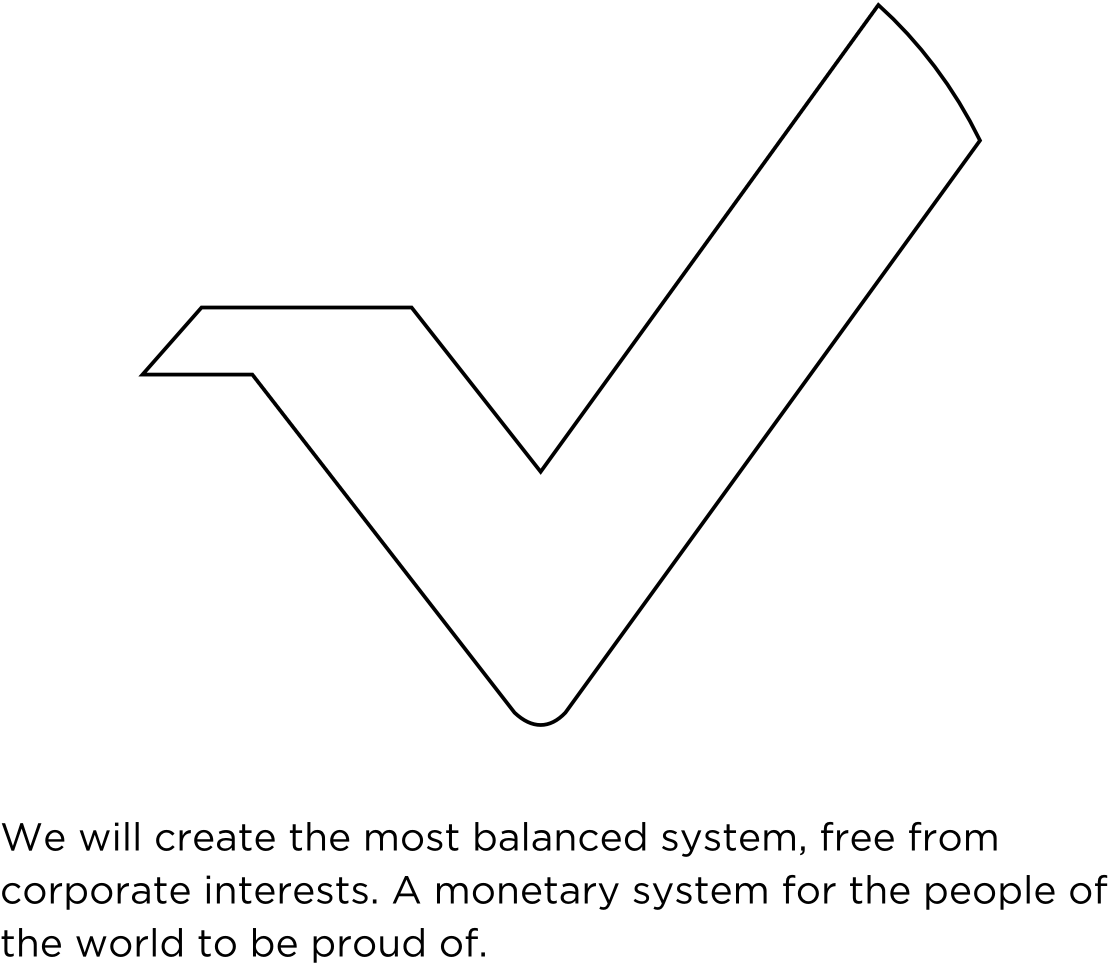
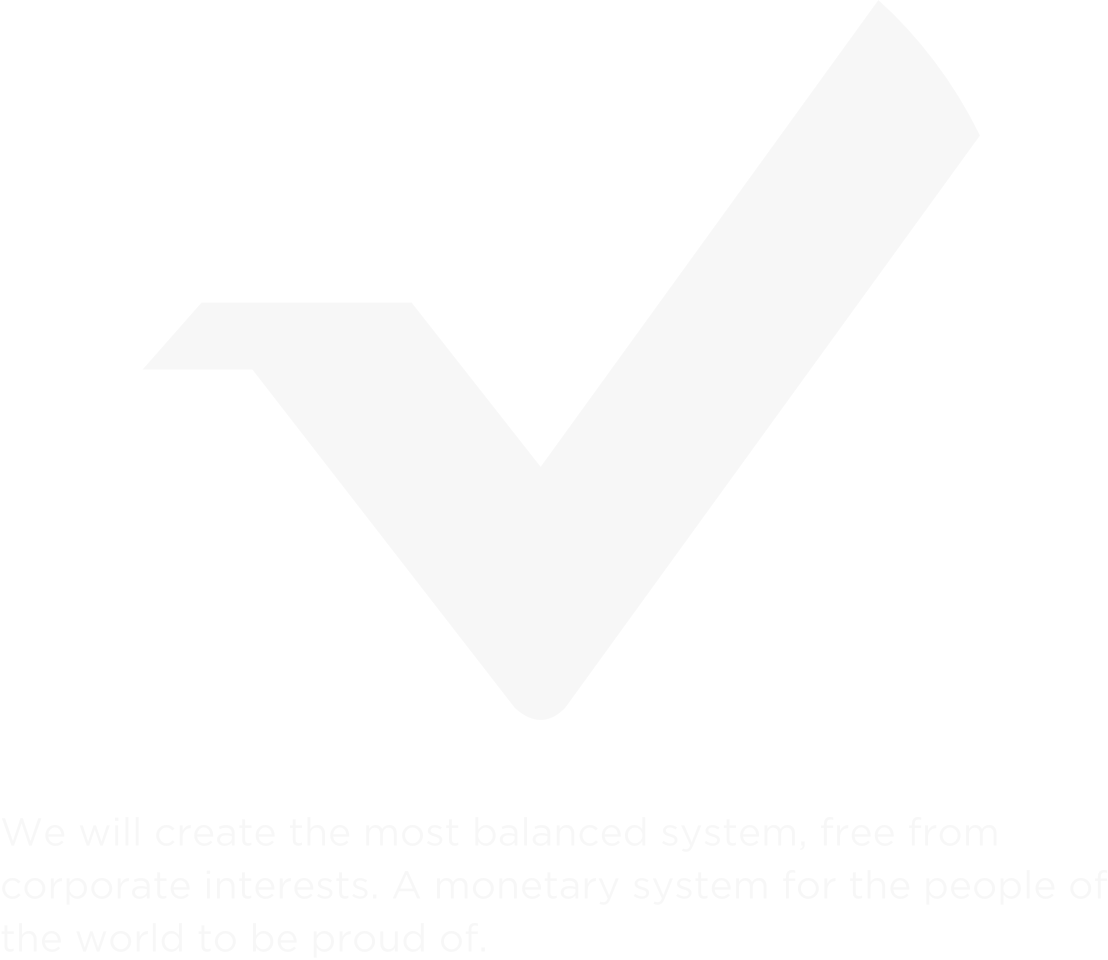
page updates

diff --git a/layouts/shortcodes/donationfund.html b/layouts/shortcodes/donationfund.html
@@ -1,27 +1,30 @@
-<div class="fh5co-block to-animate donationGoal" style="width: 100%; min-height: 300px; margin-top: 10px;" data-address="{{ .Get "address" }}" data-goal="{{ .Get "goal" }}">
-    <div class="overlay-darker"></div>
-    <div class="overlay"></div>
-    <div class="fh5co-text">
-        <h2>{{.Get "title"}}</h2>
-        <p>{{ i18n "donation_address" | markdownify }}: <a target="_blank" href="https://insight.vertcoin.org/address/{{ .Get "address" }}"><b>{{ .Get "address" }}</b></a></p>
-        <p>{{.Get "description"}}</p>
-        <div class="col-xs-12">
-            <div class="col-xs-1">&nbsp;</div>
-            <div class="col-xs-10">
+<div class="donationGoal" style="width: 100%; margin-bottom: 97px; min-height: 300px; margin-top: 10px;" data-address="{{ .Get "address" }}" data-goal="{{ .Get "goal" }}">
+
+
+
+        <h1>{{.Get "title"}}</h1>
+
+        <!--<p>{{.Get "description"}}</p>-->
+
+
+
                 <div class="progress">
                     <div class="progress-bar progress-bar-striped progress-bar-success active" role="progressbar"
-                    aria-valuenow="40" aria-valuemin="0" aria-valuemax="100" style="width:40%">
+                    aria-valuenow="0" aria-valuemin="0" aria-valuemax="100" style="width:40%">
                        
                     </div>
+
                 </div>
-            </div>
-            <div class="col-xs-1">&nbsp;</div>
-        </div>
-        <div class="col-xs-12">
-            <div class="col-xs-1">&nbsp;</div>
-            <div class="col-xs-5 text-left"><p style="font-size: 26px">{{ i18n "donation_donated" | markdownify }}: <b><span class="donationAmount">0</span> VTC</b></p></div>
-            <div class="col-xs-5 text-right"><p style="font-size: 26px">{{ i18n "donation_goal" | markdownify }}: <b>{{ .Get "goal" }} {{ .Get "goalDescription" }}</b></p></div>
-            <div class="col-xs-1">&nbsp;</div>
-        </div>
-    </div>
+
+
+
+
+
+            <p style="font-size: 26px">{{ i18n "donation_goal" | markdownify }}: {{ .Get "goal" }} {{ .Get "goalDescription" }}</p>
+
+           <h1 style="color: #339c71;"><strong><span class="donationAmount">0</span> VTC</strong></h1>
+        <p class="donationAddress">{{ i18n "donation_address" | markdownify }}: <a target="_blank" href="https://insight.vertcoin.org/address/{{ .Get "address" }}">{{ .Get "address" }}</a></p>
+
+
+
 </div>

diff --git a/themes/elate/layouts/partials/nav.html b/themes/elate/layouts/partials/nav.html
@@ -4,7 +4,7 @@
             <nav class="navbar navbar-default">
                 <div class="navbar-header">
                     <!-- Mobile Toggle Menu Button -->
-                    <a class="js-fh5co-nav-toggle fh5co-nav-toggle" data-toggle="collapse" data-target="#navbar" aria-expanded="false" aria-controls="navbar"><i></i></a>
+                    <a class="js-fh5co-nav-toggle fh5co-nav-toggle" data-toggle="collapse" data-target="#navbar" aria-expanded="false" aria-controls="navbar">MENU</a>
                     <a class="navbar-brand" href="/index.html"><img src="../images/vertcoin-header-logo.svg" alt="Vertcoin"></a>
                     <a class="js-fh5co-nav-toggle fh5co-language-toggle" data-toggle="collapse" data-target="#navbar" aria-expanded="false" aria-controls="navbar"><i></i></a>
                 </div>

diff --git a/themes/elate/layouts/_default/single.html b/themes/elate/layouts/_default/single.html
@@ -17,13 +17,11 @@
   <body>
     {{ partial "nav.html" .}}
     
-    <section id="fh5co-home" class="small-home" data-stellar-background-ratio="0.5">
+    <section id="fh5co-home" class="small-home centre" data-stellar-background-ratio="0.5">
         <div class="gradient" style="">
 
           <div style="position: absolute; top: 148px; width: 100%">
-          <div style="max-width: 1034px;
-    margin: 0 auto;
-    text-align: left;"><h1 style="color: black;">{{ .Title }}</h1></div>
+          <div style=""><h1 style="color: black; font-size: 47px; margin-top: 0px;">{{ .Title }}</h1></div>
 
     </section>
     <div class="container content-container">

diff --git a/themes/elate/layouts/_default/donate.html b/themes/elate/layouts/_default/donate.html
@@ -16,21 +16,28 @@
 
 {{ partial "nav.html" .}}
 
-<section class="separator-greenLine">
 
-    <section id="fh5co-about" data-section="about">
-        <div class="container">
 
-    </section>
-    <div class="container content-container">
+<section id="fh5co-about" data-section="about">
+    <div class="container">
+        <div class="row">
 
-        {{ .Content }}
 
+            <h2 class="teamTitle">{{ .Title }}</h2>
+
+
+        </div>
+        <div class="row" style="width: 100%;">
+
+        </div>
     </div>
-
 </section>
+
+
 
 
 
 </body>
 </html>
+
+

diff --git a/themes/elate/layouts/partials/home-socialContract.html b/themes/elate/layouts/partials/home-socialContract.html
@@ -9,8 +9,8 @@
                 <div class="childController">
 
 
-                    <h3>{{ i18n "socialContract_title" | markdownify }}</h3>
-                    <p>{{ i18n "socialContract_description" | markdownify }}</p>
+                    <h3 style="color: #f7f7f7;">{{ i18n "socialContract_title" | markdownify }}</h3>
+                    <p style="color: #f7f7f7;">{{ i18n "socialContract_description" | markdownify }}</p>
 
 
                 </div>

diff --git a/themes/elate/layouts/_default/download.html b/themes/elate/layouts/_default/download.html
@@ -18,12 +18,12 @@
 
 
 
-<section id="fh5co-about" data-section="about">
+<section id="fh5co-about" class="centre" data-section="about">
     <div class="container">
         <div class="row">
 
 
-            <h2 class="teamTitle">{{ .title }}</h2>
+            <h2 class="teamTitle">{{ .Title }}</h2>
 
 
         </div>

diff --git a/content/download.en.md b/content/download.en.md
@@ -2,7 +2,77 @@
 title: "Download"
 date: 2018-01-12T01:30:50Z
 draft: false
-layout: download
+
 ---
 
+
+# Vertcoin Wallets
+
+The Vertcoin Development team provides two different wallets that users can store their Vertcoin
+on. Third parties provide both mobile and hardware wallets. There
+is also the option to store your Vertcoins without electronics using a <a href="https://vertaddress.org/" target="_blank"> paper wallet</a>.
+
+# Vertcoin Core
+
+This is the Vertcoin reference client (forked from upstream
+[Bitcoin Core](https://github.com/bitcoin/bitcoin) and forms the backbone of the Vertcoin Network.
+Vertcoin Core is a trustless wallet meaning that you download and verify the entire
+blockchain history for yourself. Additionally, you help to redistribute the blockchain
+to new users, ferry transactions around the network and help prevent
+[eclipse attacks](https://bitcoin.stackexchange.com/questions/61151/eclipse-attack-vs-sybil-attack).
+If you intend to mine Vertcoin, the Core wallet is a requirement. Our new Lightning Network Wallet will also include these features as well.
+
+|Platform|
+|--------|
+|[Windows](https://github.com/vertcoin/vertcoin/releases/download/0.12.0/vertcoin-v0.12.0-windows-64bit.zip)|
+|[MacOS](https://github.com/vertcoin/vertcoin/releases/download/0.12.0/vertcoin-v0.12.0-OSX-64bit.dmg)|
+|[Ubuntu/Debian](https://github.com/vertcoin/vertcoin/releases/download/0.12.0/vertcoin-qt_0.12.0_amd64.deb)|
+|[Other Linux](https://github.com/vertcoin/vertcoin/releases/download/0.12.0/vertcoin-v0.12.0-linux-64bit.zip)|
+|[Linux (ARM)](https://github.com/vertcoin/vertcoin/releases/download/0.12.0/vertcoin-v0.12.0-linux-arm.zip)|
+|[Source Code](https://github.com/vertcoin/vertcoin)|
+
+# Electrum-VTC
+
+Electrum-VTC is a lightweight wallet forked from upstream [Electrum](https://github.com/spesmilo/electrum) which does
+not require you to download the full blockchain. The trade-off being that you are
+trusting the miners that they have correctly verified the transactions in the blockchain.
+Whilst this means there is no synchronization time, you are no longer working
+trustlessly and not helping to redistribute the Vertcoin blockchain to new users.
+Users should not mine into Electrum-VTC due to the load caused by many small payments
+that is put on the Electrum servers. Users should use Vertcoin Core for mining instead.
+
+|Platform|
+|--------|
+|[Windows (Installer)](https://github.com/vertcoin/electrum-vtc/releases/download/2.9.3.5/electrum-vtc-2.9.3.5-windows-setup.exe)|
+|[Windows (Standalone)](https://github.com/vertcoin/electrum-vtc/releases/download/2.9.3.5/electrum-vtc-2.9.3.5-windows.exe)|
+|[MacOS](https://github.com/vertcoin/electrum-vtc/releases/download/2.9.3.5/electrum-vtc-2.9.3.5-macosx.dmg)|
+|[Linux](https://github.com/vertcoin/electrum-vtc/releases/download/2.9.3.5/electrum-vtc-2.9.3.5.tar.gz)|
+|[Source Code](https://github.com/vertcoin/electrum-vtc)|
+
+# Mobile Wallets
+
+Currently there are only third-party mobile wallets availible for VTC. We are working
+on bringing you development team provided wallets on Android and iOS and are in the
+approval stage of this process. In the meantime, currently there is only [Coinomi](https://play.google.com/store/apps/details?id=com.coinomi.wallet)
+on Android that supports VTC.
+
+# Hardware Wallets
+
+A hardware wallet allows you to store your Vertcoins without the private keys ever
+having to leave the device. This prevents remote attackers or viruses on your computer
+from redirecting or stealing your coins. Currently the only hardware wallet for VTC is
+sold by [Ledger](https://www.ledgerwallet.com/).
+
+# Paper Wallets
+
+A paper wallet is simply a private key written on a piece of paper. This is known as
+"cold storage" since access to the coins is not stored digitally and is thus not
+susceptible to viruses or hardware failure. Paper wallets are not easy to spend however
+and thus are suitable for long-term storage. The private key from the paper wallet
+can be imported into Electrum-VTC or Vertcoin Core at a later date and spent from there.
+
+|Wallet Generator|
+|----------------|
+|[VertAddress](https://vertaddress.org)|
+|[WalletGenerator](https://walletgenerator.net/?currency=Vertcoin)|
 

diff --git a/content/accept-vertcoin.en.md b/content/accept-vertcoin.en.md
@@ -5,14 +5,13 @@ draft: false
 ---
 
 
-# Vertcoin For Business
+You can either accept Vertcoin via a payment processor that accepts cryptocurrency and give you your local currency, or by integrating the Vertcoin wallet into your payment system. Vertcoin is almost a drop-in replacement for Bitcoin so if you already support Bitcoin, Vertcoin should be trivial to support.
 
-The Vertcoin One-Click Miner is by far the easiest way to get started. It's a user-friendly piece of software (Windows only), that allows you to start mining with a few easy steps. You can download the One-Click Miner using the button below, and follow [this guide](https://medium.com/vertcoin-blog/updated-vertcoin-one-click-miner-ocm-setup-b7052a4664c9) for setting it up.
+# Payment Gateways
 
+Payment gateways accept Vertcoin on your behalf and give you your national currency in return. [CoinPayments](https://www.coinpayments.net/) is currently the preferred method of accepting Vertcoin for your online business. CoinPayments charged an 0.5% fee for its services and has integrations with various popular [e-commerce platforms](https://www.coinpayments.net/merchant-tools-plugins) including WooCommerce, Xcart, drupal and wordpress.
 
-# Point Of Sales Equipment
+# For Developers
 
-If you're more than a casual miner, you can also consider investing in dedicated mining hardware. You can build a dedicated computer solely for mining, where most so-called _rigs_ contain 6 or more GPUs. By adding a bigger number of GPUs, the rewards are also proportionally higher - but so is the investment upfront.
+Vertcoin is compatible with most exiting libraries intended for Bitcoin such as [bitcoinjs-lib](https://github.com/bitcoinjs/bitcoinjs-lib) and [python-bitcoinlib](https://github.com/petertodd/python-bitcoinlib). Vertcoin also has ports of [Bitcore](https://github.com/Cubey2019/vertcore), [Insight](https://insight.vertcoin.org) and [Electrum](https://github.com/kyuupichan/electrumx).
 
-
-There's plenty of guides on how to build a dedicated mining rig on the internet; if you're capable of assembling a normal desktop computer, you should be able to assemble a mining rig. Dedicated miners are commonly using a command-line script for starting the miner so that the miner automatically starts when the machine starts. Most dedicated rigs use the mining software [ccminer](https://github.com/tpruvot/ccminer), which is also included in the One-Click Miner, but without the Graphical User Interface.

diff --git a/content/donate.en.md b/content/donate.en.md
@@ -4,12 +4,10 @@ date: 2018-01-17T01:00:00+02:00
 draft: false
 ---
 
-# Donate
-
 Since Vertcoin did not have an ICO (Initial Coin Offering), or pre-mine (allocation of currency at the launch of the network), the development team has to rely on community donations for their funding. Whilst the developers work as volunteers and do not get paid a salary, they do make costs to advance the project. On this page, we have detailed a number of donation goals that require additional funds.
 
 
-You can select the goal that mosts suits you; we pledge to use the funding on the designated goal, and account for these in our monthly development update.
+You can select the goal that mosts suits you; we pledge to use the funding on the designated goal, and account for these in our <a href="https://medium.com/vertcoin-blog">monthly development update.</a>
 {{< donationfundcontainer >}}
     {{< donationfund address="VqQWx5p7Yr6ns4dPNQEM6j3JvA9rdBEDm4" title="Marketing & Advertising Fund" description="The Marketing and Advertising Fund is solely used to pay for marketing and advertising costs. This includes paid ads on social networks, ad sponsorships, printed ads, costs to producing marketing materials,and any services provided while delivering marketing campaigns. We intend to spread awareness and educate individuals on both Vertcoin and the value of a truly decentralized, community driven mining." monthly="1" goal="500" goalDescription="VTC / month">}}
     {{< donationfund address="VxiiVaVNJbhUMW99kERXvJrwzct6KrfpTr" title="Exchange Listing Fund" description="The Exchange Listing Fund is solely used to pay for exchange listing fees. We don't have specific opportunities or fees that we can share with you at this time, but it's highly likely that new exchange opportunities require a listing fee that needs funding from the community. We'll pay for those from this fund, and will negotiate with exchanges in accordance with available funds." monthly="0" goal="10000" goalDescription="VTC" >}}

diff --git a/content/merchants.en.md b/content/merchants.en.md
@@ -16,20 +16,3 @@ Payment gateways accept Vertcoin on your behalf and give you your national curre
 
 Vertcoin is compatible with most exiting libraries intended for Bitcoin such as [bitcoinjs-lib](https://github.com/bitcoinjs/bitcoinjs-lib) and [python-bitcoinlib](https://github.com/petertodd/python-bitcoinlib). Vertcoin also has ports of [Bitcore](https://github.com/Cubey2019/vertcore), [Insight](https://insight.vertcoin.org) and [Electrum](https://github.com/kyuupichan/electrumx). 
 
-#### Existing merchants
-
-##### Video Games
-
-- [Keys4coins](https://www.keys4coins.com/)
-- [XBL4BTC](https://xbl4btc.com/)
-
-##### Food
-
-- [Crypto de Change(UK)](https://www.cryptodechange.com/?currency=vtc)
-
-##### Goods/Merchandise
-
-- [Gifftoff](https://giftoff.com/)
-- [Geekboxit](https://geekboxit.com/product/vertcoin-t-shirt/)
-- [Shirtcoins](https://shirtcoins.com/collections/vtc)
-

diff --git a/content/purchase.en.md b/content/purchase.en.md
@@ -1,11 +1,8 @@
 ---
-title: "Buy Vertcoin"
+title: "Purchase"
 date: 2018-01-09T01:51:53Z
 draft: false
 ---
-
-# Trade Vertcoin
-
 Vertcoin trades 24 hours per day, 365 days per year, globally with millions of 
 United States Dollars worth of daily trading volume. You can trade Vertcoin for 
 other cryptocurrencies or for your national currency using an exchange. Brokers 

diff --git a/content/specifications-explained.en.md b/content/specifications-explained.en.md
@@ -1,5 +1,5 @@
 ---
-title: "Vertcoin Specifications Explained"
+title: "Specs Explained"
 date: 2018-01-12T01:30:50Z
 draft: false
 ---
